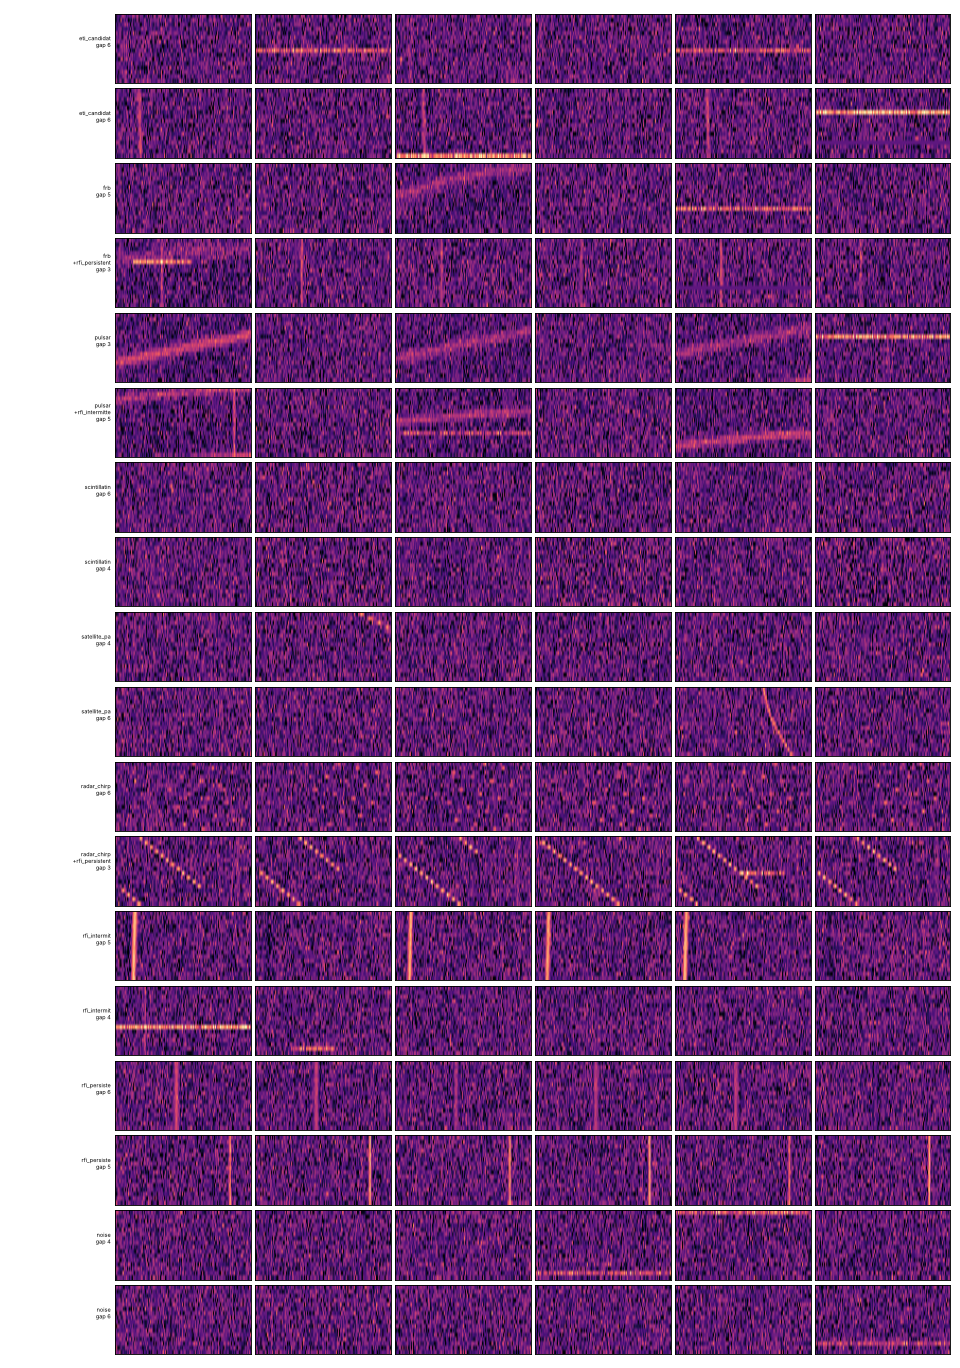
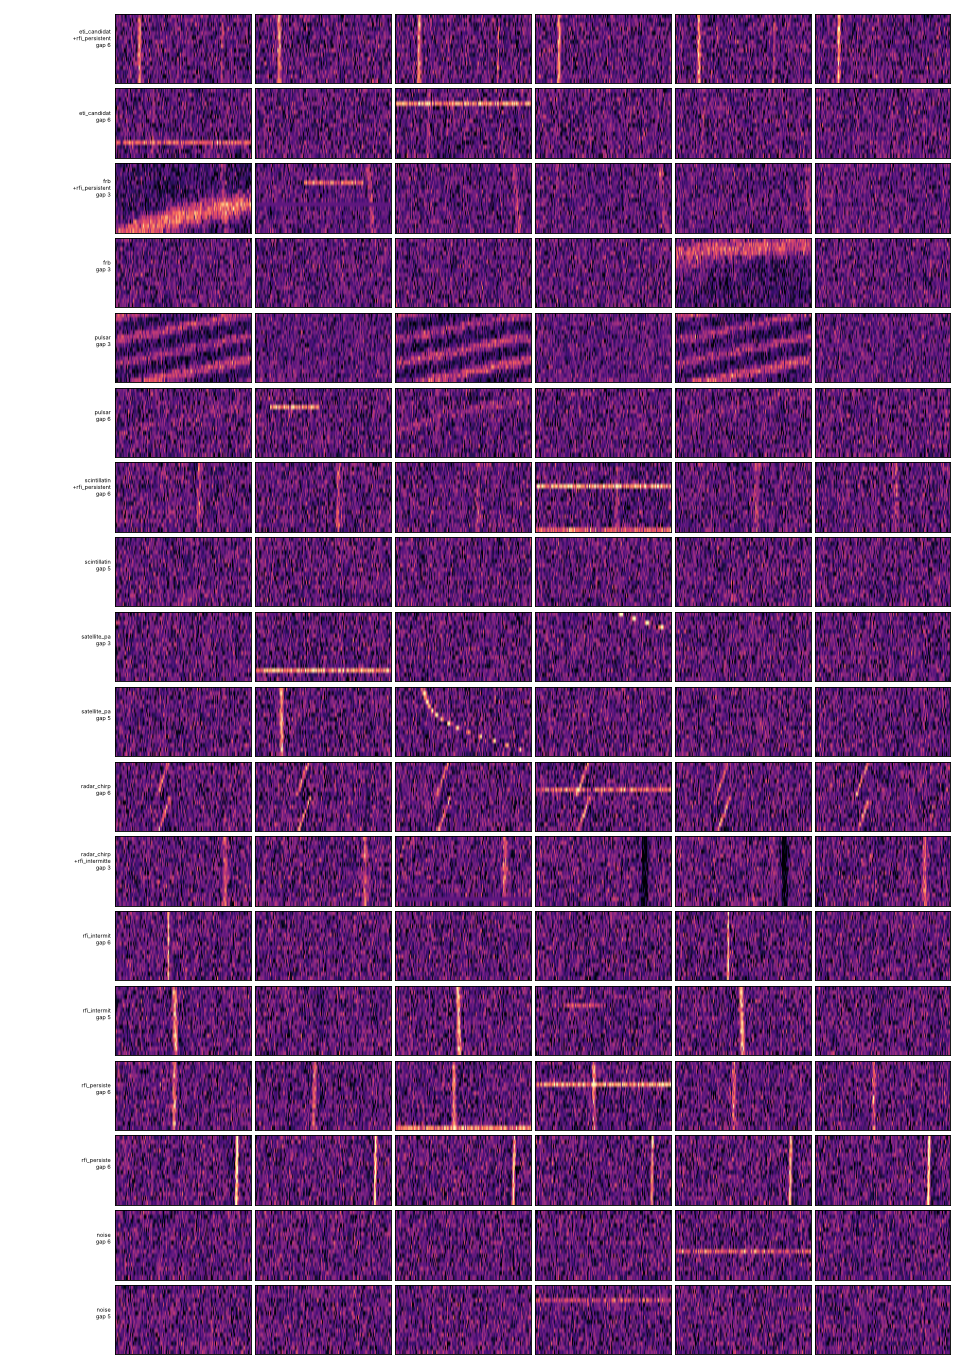
Generator: multiplicative radiometer model, panel-relative radar sawtooth, calibration round 2
Claude-Session: https://claude.ai/code/session_01TtSjx65JVDMGgLyKPdWSat

diff --git a/src/generator.py b/src/generator.py
@@ -47,11 +47,11 @@ TEL = {
 SRC = dict(
     eti=dict(amp=(0.25, 2.5), drift=(0.04, 0.8), width=(0.5, 1.4)),
     line=dict(amp=(0.6, 5.0), width=(0.5, 1.6)),
-    pers=dict(p_zero_drift=0.65, drift=(0.01, 0.35), p_fade=0.30),
+    pers=dict(amp=(1.0, 8.0), width=(0.7, 2.0), p_zero_drift=0.65, drift=(0.01, 0.35), p_fade=0.30),
     inter=dict(mix=[0.20, 0.13, 0.10, 0.30, 0.27], drift_p_zero=0.4, drift=(0.02, 0.6)),
-    sat=dict(amp=(0.6, 6.0), width=(0.6, 1.6), p_one=0.8, height=(20.0, 80.0), tau=(2.0, 12.0)),
-    radar=dict(amp=(0.4, 3.0), width=(0.6, 1.5), slope=(5.0, 20.0), span=(40.0, 128.0)),
-    pulsar=dict(amp=(0.3, 2.5), period=(3.0, 16.0), width=(0.4, 1.5), sweep=(0.0, 9.0), lvl=(0.0, 0.0)),
+    sat=dict(amp=(1.0, 8.0), width=(0.6, 1.6), p_one=0.8, height=(30.0, 100.0), tau=(1.5, 8.0)),
+    radar=dict(amp=(0.4, 3.0), width=(0.6, 1.5), period=(4.0, 16.0), span=(10.0, 90.0)),   # slope span/period 0.6-20 ch/row
+    pulsar=dict(amp=(0.25, 1.8), period=(3.0, 16.0), width=(0.4, 1.5), sweep=(0.0, 9.0), lvl=(0.0, 0.0)),
     frb=dict(amp=(0.4, 3.0), width=(0.5, 1.5), sweep=(2.0, 14.0), tail=(0.0, 3.0)),
     scint=dict(flux=(0.03, 0.3), depth=(0.15, 0.5), tscale=(1.0, 3.0), fscale=(2.0, 10.0)),   # tex v2x4..v16x64 -> scintle area ~100 px
 )
@@ -100,10 +100,10 @@ def src_eti(S, rng, gap, P, primary=True):
 def src_rfi_persistent(S, rng, gap, P, primary=True):
     q = P['pers']; ql = P['line']
     d = 0.0 if rng.random() < q['p_zero_drift'] else logu(rng, *q['drift']) * rng.choice([-1, 1])
-    c0 = rng.uniform(3, 124); A = logu(rng, *ql['amp'])
+    c0 = rng.uniform(3, 124); A = logu(rng, *q['amp'])
     pamp = {p: rng.uniform(0.6, 1.0) for p in range(6)}
     if rng.random() < q['p_fade']: pamp[int(rng.integers(6))] = rng.uniform(0.0, 0.4)   # one faded panel
-    add_track(S, rng, gap, range(6), c0, d, A, rng.uniform(*ql['width']), pamp=pamp)
+    add_track(S, rng, gap, range(6), c0, d, A, rng.uniform(*q['width']), pamp=pamp)
     return dict(drift=d, c0=c0)
 
 
@@ -141,13 +141,13 @@ def src_satellite(S, rng, gap, P, primary=True):
 
 
 def src_radar(S, rng, gap, P, primary=True):
-    """sawtooth chirp: frequency ramps with slope then wraps, period T rows; transmitter on through all panels."""
-    q = P['radar']; slope = logu(rng, *q['slope']) * rng.choice([-1, 1]); span = rng.uniform(*q['span'])
-    per = span / abs(slope)                                         # rows per ramp (real acf: streak slope 5-20 ch/row)
-    A = logu(rng, *q['amp']); w = rng.uniform(*q['width']); T = tgrid(gap); ph = rng.uniform(0, per)
-    lo = rng.uniform(0, 128 - span); hi = lo + span
+    """sawtooth chirp: frequency ramps over `span` channels in `per` rows, then wraps; same pattern in every panel
+    (panel-relative time: real rep_k3/k6 of radar are raised = same streaks at the same place in several panels)."""
+    q = P['radar']; per = rng.uniform(*q['period']); span = rng.uniform(*q['span']); slope = rng.choice([-1, 1])
+    A = logu(rng, *q['amp']); w = rng.uniform(*q['width']); ph = rng.uniform(0, per)
+    lo = rng.uniform(0, 128 - span); hi = lo + span; r = np.arange(16, dtype=np.float32)
     for p in range(6):
-        frac = ((T[p] + ph) % per) / per                          # (16,)
+        frac = ((r + ph) % per) / per                              # (16,)
         c = (lo + frac * span) if slope > 0 else (hi - frac * span)
         S[p] += A * np.exp(-0.5 * ((CH[None, :] - c[:, None]) / w) ** 2)
     return dict(period=per)
@@ -244,7 +244,9 @@ def render_one(rng, label, tel='GBT', gap=None, P=SRC, secondary=SECONDARY):
             RENDER[s](S, rng, gap, P, primary=False); sec.append(s)
     info['secondary'] = '+'.join(sec)
     k = t['dof']; noise = rng.chisquare(k, (6, 16, 128)).astype(np.float32) / k
-    v = 96.0 + 24.0 * np.log2(noise + S)
+    # radiometer model: signal and noise fluctuate together, P = (1+S)*chi2_k/k (an additive S compresses the
+    # log-variance of brightened pixels: scint ON panels then show LESS small-scale texture than OFF, opposite to real)
+    v = 96.0 + 24.0 * np.log2((1.0 + S) * noise)
     v += bandpass(rng, t)[None, None, :] - 96.0
     v += rng.normal(0, t['gain_sd'], (6, 1, 1)).astype(np.float32)
     G, ng = glitch_rows(rng, t); v += G; info['n_glitch'] = ng
@@ -260,7 +262,7 @@ def scaled_params(P, ds):
     import copy
     Q = copy.deepcopy(P)
     if ds != 1.0:
-        for k, f in [('eti', 'drift'), ('pers', 'drift'), ('inter', 'drift'), ('radar', 'slope'), ('sat', 'height')]:
+        for k, f in [('eti', 'drift'), ('pers', 'drift'), ('inter', 'drift'), ('radar', 'span'), ('sat', 'height')]:
             Q[k][f] = tuple(v * ds for v in Q[k][f])
     return Q
 
